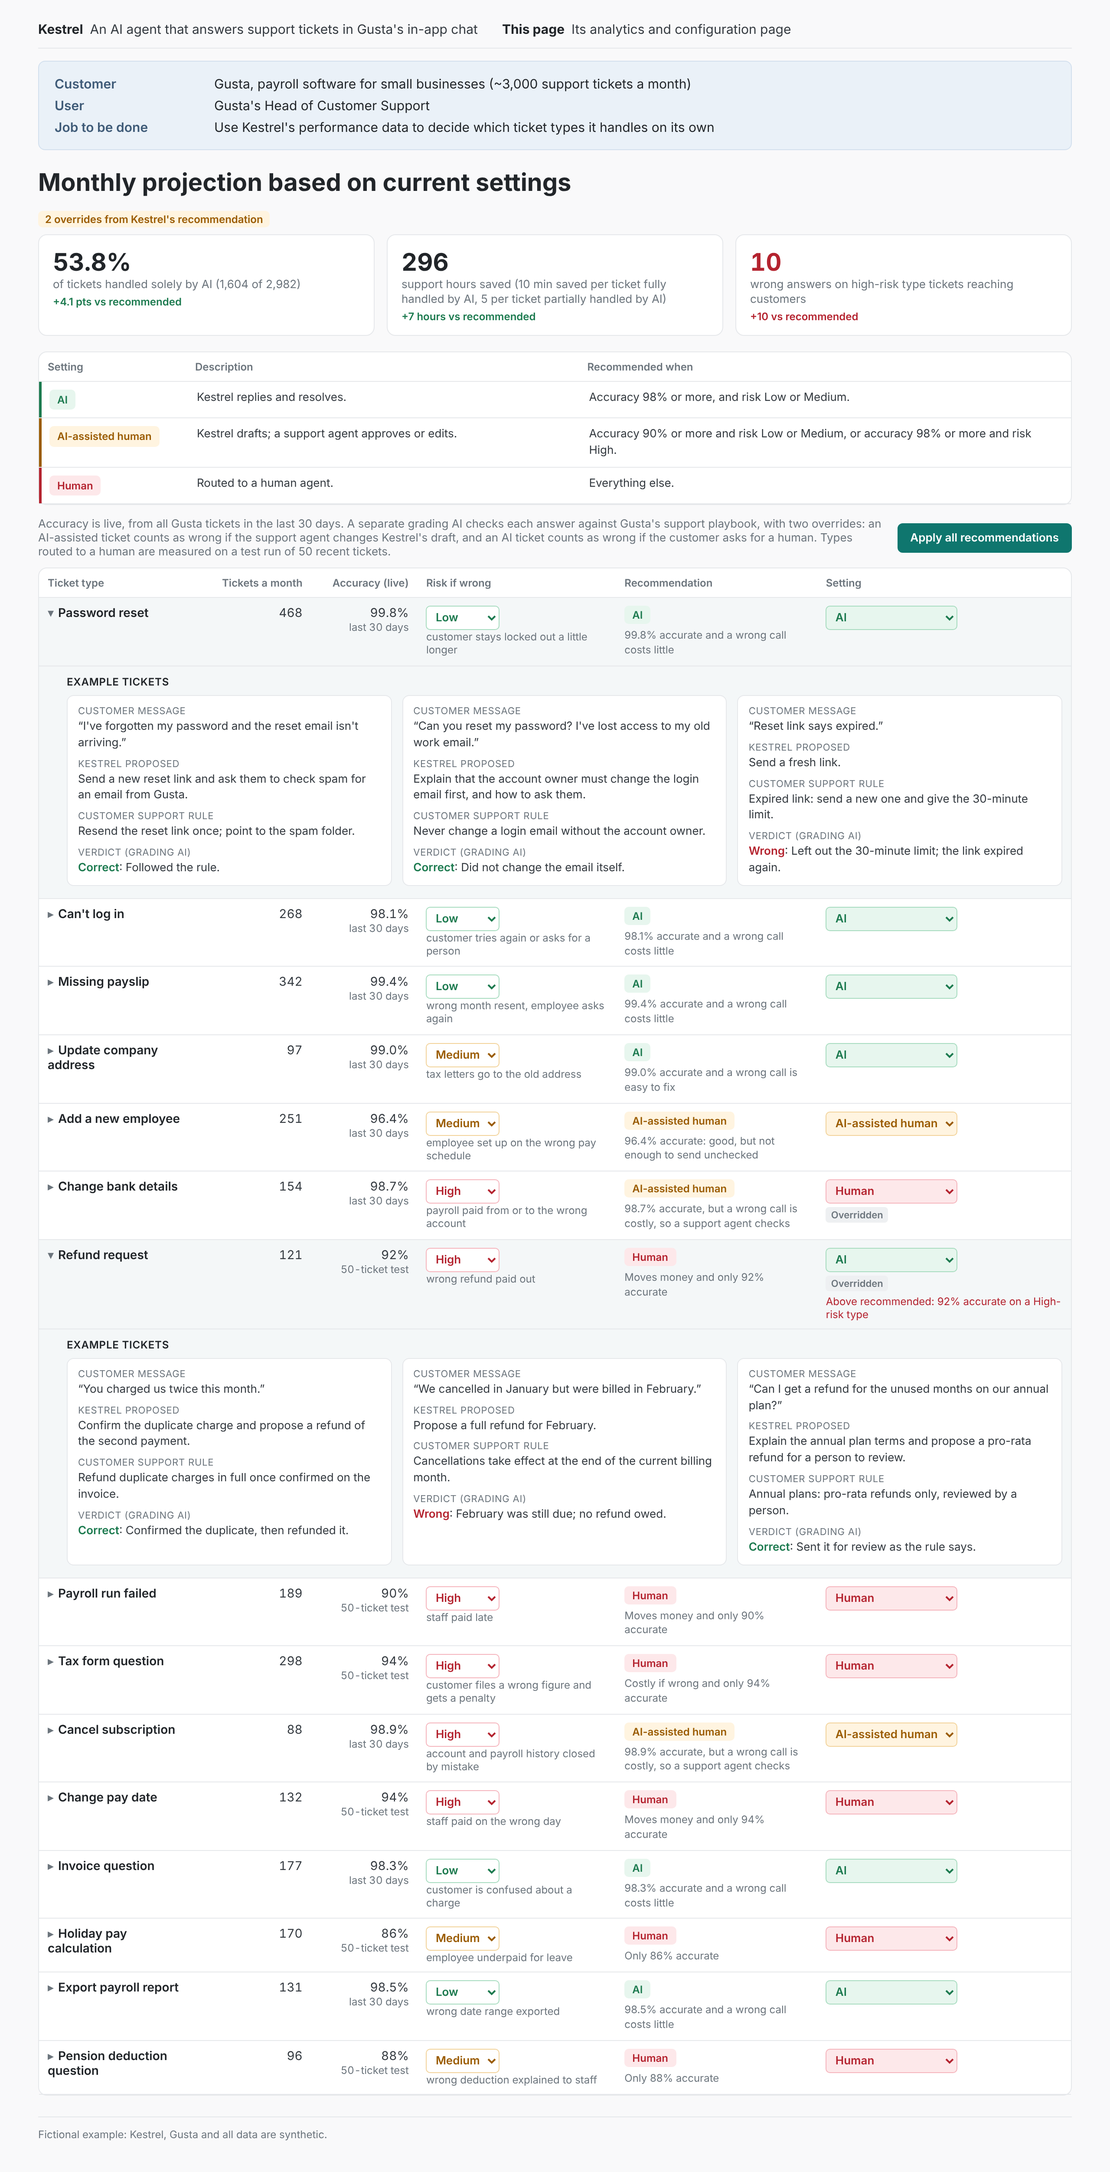
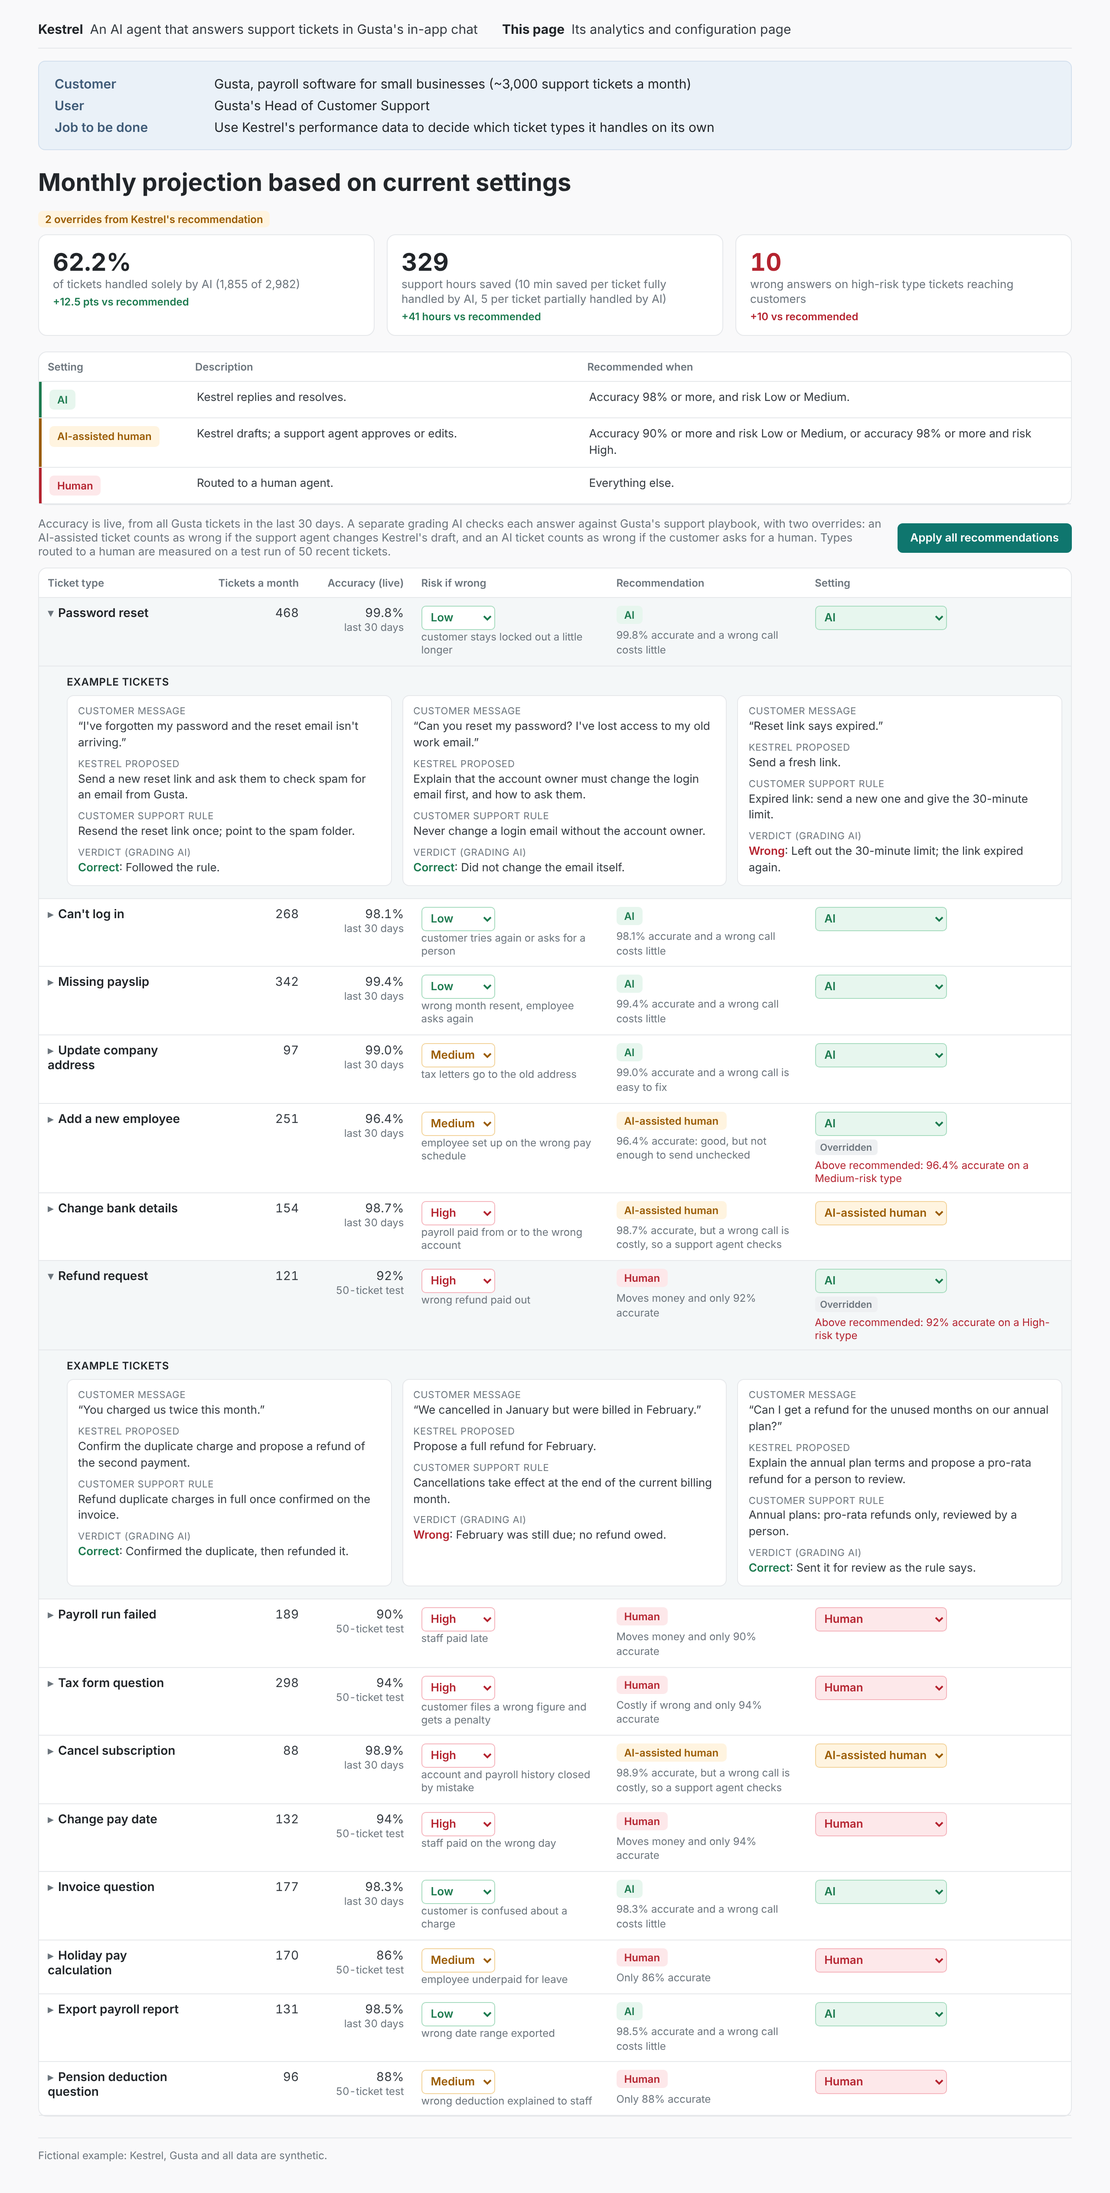
Live accuracy refresh animation; default override moves a type up to AI; new landing title; remaining skill lessons
Claude-Session: https://claude.ai/code/session_016JoguXTxkWcj5knaYbAtMZ

diff --git a/examples/kestrel/run/build/mvp.html b/examples/kestrel/run/build/mvp.html
@@ -19,6 +19,8 @@ h1{font-size:28px;color:var(--head);margin:0 0 16px}
 .summary{display:grid;grid-template-columns:repeat(3,1fr);gap:14px;margin-bottom:18px}
 .delta{font-size:12px;font-weight:600;margin-top:4px}.d-up{color:var(--ai)}.d-bad{color:var(--hum)}.d-none{color:var(--mute);font-weight:400}
 .card b.hi-bad{color:var(--hum)}
+td.acc{transition:background-color .6s,color .3s}td.acc-up{background:var(--ai-bg);color:var(--ai);font-weight:600}td.acc-down{background:var(--hum-bg);color:var(--hum);font-weight:600}
+.accd{font-size:11px;margin-right:6px}
 .card b{transition:color .25s}.card{transition:background-color .6s}
 .card.flash-good{background:var(--ai-bg)}.card.flash-good b{color:var(--ai)}
 .card.flash-bad{background:var(--hum-bg)}.card.flash-bad b{color:var(--hum)}
@@ -106,7 +108,8 @@ if (typeof module !== 'undefined') module.exports = {accuracy, recommend, summar
 <script>
 const LABEL = {resolve: 'AI', draft: 'AI-assisted human', human: 'Human'};
 let D, settings = [], risks = [], open = new Set([0]);
-const eff = () => D.types.map((t, i) => Object.assign({}, t, {risk: risks[i]}));
+let live = false, accFlash = {};
+const eff = () => D.types.map((t, i) => Object.assign({}, t, {risk: risks[i]}, live ? {} : {correct: t.prev_correct}));
 const fmt = v => Math.round(v).toLocaleString('en-GB');
 function staticParts(){
   const K = D.product, G = D.customer, n = 0;
@@ -143,7 +146,7 @@ function render(){
     const main = `<tr class="row${isOpen ? ' open' : ''}" data-i="${i}" onclick="toggle(${i})">
       <td><span class="chev">${isOpen ? '▾' : '▸'}</span><span class="name">${t.name}</span></td>
       <td class="n">${fmt(t.tickets)}</td>
-      <td class="n">${p}%<div class="sub">${t.tested === t.tickets ? "last 30 days" : t.tested + "-ticket test"}</div></td>
+      <td class="n acc ${accFlash[i] ? (accFlash[i] > 0 ? 'acc-up' : 'acc-down') : ''}">${accFlash[i] ? `<span class="accd">${accFlash[i] > 0 ? '▲ +' : '▼ −'}${Math.abs(accFlash[i]).toFixed(1)}</span>` : ''}${p}%<div class="sub">${t.tested === t.tickets ? "last 30 days" : t.tested + "-ticket test"}</div></td>
       <td onclick="event.stopPropagation()"><select class="rk-${t.risk}" data-risk="${i}" onchange="setRisk(${i}, this.value)">${['Low', 'Medium', 'High'].map(v => `<option${v === t.risk ? ' selected' : ''}>${v}</option>`).join('')}</select>${adj ? '<div class="adjusted">Adjusted by user</div>' : `<div class="sub">${t.risk_example.replace(/^\w+: /, '')}</div>`}</td>
       <td><span class="chip c-${rec}">${LABEL[rec]}</span>${adj ? '' : `<div class="reason">${t.reason}</div>`}</td>
       <td onclick="event.stopPropagation()"><select class="s-${set}" data-i="${i}" onchange="setMode(${i}, this.value)">${['resolve', 'draft', 'human'].map(m => `<option value="${m}"${m === set ? ' selected' : ''}>${LABEL[m]}</option>`).join('')}</select>${over}${warn}</td>
@@ -177,9 +180,15 @@ function setRisk(i, v){ const n = 0, before = recommend(eff()[i], n); risks[i] =
   const after = recommend(eff()[i], n); if (settings[i] === before) settings[i] = after; render();
   toast(`${D.types[i].name} risk set to ${v}. ${after !== before ? 'Now recommended: ' + LABEL[after] + '.' : 'Recommendation unchanged.'}`); }
 function applyAll(silent){ settings = eff().map(t => recommend(t, 0)); render(); if (!silent) toast('All recommendations applied. Projection updated.'); }
-fetch('../data/ticket_types.json').then(r => r.json()).then(d => { D = d; risks = D.types.map(t => t.risk); staticParts(); applyAll(true);
-  setTimeout(() => { settings[D.types.findIndex(t => t.name === 'Change bank details')] = 'human'; render();
-    toast("Saved settings loaded: 1 override from Kestrel's recommendation."); document.body.dataset.ready = '1'; }, 600); })
+fetch('../data/ticket_types.json').then(r => r.json()).then(d => { D = d; risks = D.types.map(t => t.risk); staticParts();
+  // saved settings: one override (Add a new employee moved up to AI)
+  settings = eff().map(t => recommend(t, 0)); settings[D.types.findIndex(t => t.name === 'Add a new employee')] = 'resolve'; render();
+  // live accuracy refresh: yesterday's figures move to today's, each changed cell flashes green or red
+  setTimeout(() => { live = true; accFlash = {};
+    D.types.forEach((t, i) => { const d = (t.correct - t.prev_correct) / t.tested * 100; if (Math.abs(d) >= 0.05) accFlash[i] = d; });
+    render(); const n = Object.keys(accFlash).length;
+    toast(`Live accuracy updated with today's tickets: ${n} ticket types changed.`); document.body.dataset.ready = '1';
+    setTimeout(() => { accFlash = {}; render(); }, 2200); }, 700); })
   .catch(() => { document.querySelector('main').insertAdjacentHTML('afterbegin', '<p class="measure"><b>Couldn\'t load the data.</b> Open this page through a web server, not by double-clicking the file.</p>'); });
 </script>
 </body></html>

diff --git a/examples/kestrel/run/build/check_mvp.js b/examples/kestrel/run/build/check_mvp.js
@@ -13,14 +13,16 @@ const srv = http.createServer((q, r) => { const f = path.join(root, decodeURICom
   const it = await txt('#intro'), hd = await txt('#header'); t('Kestrel and This page at the top, outside the box', it.indexOf('An AI agent that answers support tickets') < it.indexOf('Its analytics and configuration page') && !hd.includes('Its analytics') && hd.includes('Customer'));
   t('accuracy line explains the overrides', (await txt('#measure')).includes('counts as wrong if the support agent changes') && (await txt('#measure')).includes('asks for a human'));
   t('headline', (await txt('#headline')) === 'Monthly projection based on current settings');
-  t('default: 1 override (Change bank details set to Human)', (await txt('#state')) === "1 override from Kestrel's recommendation" && (await p.inputValue('select[data-i="5"]')) === 'human' && (await txt('tr.row[data-i="5"]')).includes('Overridden'));
-  t('default projection: 49.7%, 275 hours, 0', (await txt('#sumShare')) === '49.7%' && (await txt('#sumHours')) === '275' && (await txt('#sumHigh')) === '0');
-  t('on load: saved settings applied with a red flash on hours, and a confirmation', (await p.getAttribute('#sumHours >> xpath=..', 'class')).includes('flash-bad') && (await txt('#toast')).includes('Saved settings loaded'));
+  t('default: 1 override (Add a new employee set to AI, above recommended)', (await txt('#state')) === "1 override from Kestrel's recommendation" && (await p.inputValue('select[data-i="4"]')) === 'resolve' && (await txt('tr.row[data-i="4"]')).includes('Above recommended'));
+  t('default projection: 58.1%, 309 hours, 0', (await txt('#sumShare')) === '58.1%' && (await txt('#sumHours')) === '309' && (await txt('#sumHigh')) === '0');
+  t('live accuracy refresh: green and red cells with the change', (await p.$$('td.acc-up')).length === 4 && (await p.$$('td.acc-down')).length === 2 && (await txt('tr.row[data-i="0"] td.acc')).includes('▲ +0.2') && (await txt('#toast')).includes('Live accuracy updated'));
+  t('no load flash on the hours card', !(await p.getAttribute('#sumHours >> xpath=..', 'class')).includes('flash'));
   t('label says solely by AI', (await txt('#summary')).includes('of tickets handled solely by AI'));
   await p.click('#applyAll');
   t('no badge with recommended settings', !(await p.$('#state')));
   t('recommended settings: 49.7%, 288 hours, 0 high-risk wrong answers', (await txt('#sumShare')) === '49.7%' && (await txt('#sumHours')) === '288' && (await txt('#sumHigh')) === '0');
   t('rules before the table', await p.evaluate(() => !!(document.querySelector('#rules').compareDocumentPosition(document.querySelector('#types')) & Node.DOCUMENT_POSITION_FOLLOWING)));
+  await p.waitForTimeout(2400);
   t('15 rows, Password reset expanded by default', (await p.$$('tr.row')).length === 15 && (await p.$$('tr.detail')).length === 1 && (await txt('tr.row.open')).includes('Password reset'));
   const det = await txt('tr.detail');
   t('each expanded row has an Example tickets heading', det.includes('Example tickets'));

diff --git a/index.html b/index.html
@@ -1,23 +1,23 @@
 <!doctype html>
 <html lang="en"><head><meta charset="utf-8"><meta name="viewport" content="width=device-width,initial-scale=1">
-<title>From customer need to tested prototype in an hour</title>
+<title>How I go from customer need to a working prototype in an hour</title>
 <style>
 body{margin:0;font-family:Inter,Arial,sans-serif;background:#f9f9fa;color:#343a40}
 main{max-width:1200px;margin:56px auto 40px;padding:0 16px}
-.intro{max-width:980px}
-h1{color:#212529;margin:0 0 10px;font-size:34px;line-height:1.2;white-space:nowrap}p{line-height:1.55;font-size:17px;margin:8px 0}
+.intro{max-width:none}
+h1{color:#212529;margin:0 0 10px;font-size:32px;line-height:1.2;white-space:nowrap}p{line-height:1.55;font-size:17px;margin:8px 0}
 .links{margin:18px 0 24px}
 .case{background:#fff;border-left:3px solid #0f766e;padding:10px 14px;border-radius:4px;font-size:16px}
 a.btn{display:inline-block;background:#0f766e;color:#fff;text-decoration:none;padding:11px 16px;border-radius:6px;font-weight:600;margin:0 10px 10px 0}
 a.sec{background:#fff;color:#343a40;border:1px solid #343a40}
 .demo{border:1px solid #e6e8eb;border-radius:10px;overflow:hidden;background:#fff;box-shadow:0 8px 28px rgba(0,0,0,.06)}
 iframe{display:block;width:100%;height:2600px;border:0}
-@media (max-width:860px){h1{white-space:normal}}
+@media (max-width:1100px){h1{white-space:normal}}
 @media (max-width:700px){iframe{height:700px}h1{font-size:26px}}
 </style></head><body><main>
 <div class="intro">
-<h1>From customer need to tested prototype in an hour</h1>
-<p>How I do it with Claude Code, custom skills and MCPs.</p>
+<h1>How I go from customer need to a working prototype in an hour</h1>
+<p>With Claude Code, custom skills, and MCPs.</p>
 <p>Below is the prototype it produced for a fictional use case: the customer-facing analytics and configuration page of Kestrel, an AI agent that answers customer support tickets. All data is synthetic.</p>
 <div class="links">
 <a class="btn" href="https://github.com/kfauzie/product-workflow">See the skills on GitHub</a>

diff --git a/examples/kestrel/run/notebooks/make_data.py b/examples/kestrel/run/notebooks/make_data.py
@@ -88,6 +88,8 @@ LIVE = {
  'Export payroll report': (131, 129),
  'Pension deduction question': (50, 44),
 }
+# yesterday's correct count for the live types, so the page can show today's refresh (no threshold is crossed)
+PREV = {"Password reset": 466, "Can't log in": 264, "Missing payslip": 339, "Add a new employee": 241, "Change bank details": 151, "Export payroll report": 130}
 REASON = {
  "Password reset": "{p} accurate and a wrong call costs little",
  "Can't log in": "{p} accurate and a wrong call costs little",
@@ -108,7 +110,7 @@ REASON = {
 pct = lambda n: (f"{LIVE[n][1] / LIVE[n][0] * 100:.0f}%" if LIVE[n][0] == 50 else f"{LIVE[n][1] / LIVE[n][0] * 100:.1f}%")
 out = {"label": "FICTIONAL and SYNTHETIC: Kestrel example, not real data",
        "product": "Kestrel", "customer": "Gusta", "channel": "In-app chat", "minutes_ai": 10, "minutes_assisted": 5,
-       "types": [{"name": n, "tickets": v, "tested": LIVE[n][0], "correct": LIVE[n][1], "risk": c, "risk_example": ce, "reason": REASON[n].format(p=pct(n)),
+       "types": [{"name": n, "tickets": v, "tested": LIVE[n][0], "correct": LIVE[n][1], "prev_correct": PREV.get(n, LIVE[n][1]), "risk": c, "risk_example": ce, "reason": REASON[n].format(p=pct(n)),
                   "examples": [{"message": a, "proposed": b, "rule": rl, "correct": ok, "verdict_reason": rs} for a, b, rl, ok, rs in ex]}
                  for n, v, k, c, ce, mm, ex in T]}
 json.dump(out, open("data/ticket_types.json", "w"), indent=1)

diff --git a/README.md b/README.md
@@ -17,10 +17,10 @@ Kestrel's analytics and configuration page, for Gusta's Head of Customer Support
 
 | Part | What it shows |
 |---|---|
-| Monthly projection based on current settings | **49.7%** of tickets handled solely by AI (1,483 of 2,982) · **275** support hours saved (10 minutes per ticket fully handled by AI, 5 per ticket partially handled by AI) · **0** wrong answers on high-risk type tickets reaching customers. Recalculates as settings change; each change flashes green or red and shows the difference from Kestrel's recommendation |
+| Monthly projection based on current settings | **58.1%** of tickets handled solely by AI (1,734 of 2,982) · **309** support hours saved (10 minutes per ticket fully handled by AI, 5 per ticket partially handled by AI) · **0** wrong answers on high-risk type tickets reaching customers. Recalculates as settings change; each change flashes green or red and shows the difference from Kestrel's recommendation |
 | Settings | **AI**: Kestrel replies and resolves (recommended at 98%+ accuracy and risk Low or Medium) · **AI-assisted human**: Kestrel drafts, a support agent approves or edits (90%+ and risk Low or Medium, or 98%+ and risk High) · **Human**: routed to a human agent (everything else) |
-| The table | 15 ticket types: tickets a month, live accuracy, risk if wrong, Kestrel's recommendation with its reason, and the setting Gusta controls |
-| Adjustments | Risk and setting are both editable. Changing a risk shows "Adjusted by user" and re-runs the recommendation; changing a setting shows "Overridden" and warns when it gives Kestrel more autonomy than recommended. A confirmation appears after each change. The page opens with one override (Change bank details kept with a human); "Apply all recommendations" resets it |
+| The table | 15 ticket types: tickets a month, live accuracy (refreshed on load, each change shown in green or red), risk if wrong, Kestrel's recommendation with its reason, and the setting Gusta controls |
+| Adjustments | Risk and setting are both editable. Changing a risk shows "Adjusted by user" and re-runs the recommendation; changing a setting shows "Overridden" and warns when it gives Kestrel more autonomy than recommended. A confirmation appears after each change. The page opens with one override (Add a new employee moved up to AI); "Apply all recommendations" resets it |
 | Example tickets | 3 under each ticket type: customer message, what Kestrel proposed, the customer support rule, and the grading AI's verdict |
 
 Accuracy is live, from all Gusta tickets in the last 30 days. A separate grading AI checks each answer against Gusta's support playbook, with two overrides: an AI-assisted ticket counts as wrong if the support agent changes Kestrel's draft, and an AI ticket counts as wrong if the customer asks for a human. Types routed to a human are measured on a test run of 50 recent tickets. Every number on the page is calculated from [the data](examples/kestrel/run/data/ticket_types.json) and checked by [tests](examples/kestrel/run/build/test_mvp.js) on every push.

diff --git a/.claude/commands/pm-4-solution-design.md b/.claude/commands/pm-4-solution-design.md
@@ -20,6 +20,10 @@ description: "Turn the solution concept into screens in the company's design sys
 6. **Trust.** The user can see how each number was produced, and where every choice came from (their input, a default, or changed by them).
 7. **Handle edge cases.** Missing data, unclear input, or something the product can't do: say so where it happens, let the user fix it there, then redo what depends on it.
 8. **Make it enjoyable.** Serious, with a little personality: friendly wording, a sense of progress.
+9. **One page by default.** Lead with the few numbers that answer the job, then the rule that produces the recommendation, then the detail. Everything else is one click away (expand a row, open a panel), not a second screen.
+10. **Recommend, let the user decide.** Show the product's recommendation and a separate control the user owns. Mark anything the user changed ("Overridden", "Adjusted by user"), warn when a change goes beyond the recommendation, and offer a one-click way back.
+11. **Make every change visible.** Numbers recalculate live from the current settings; a change shows its direction (green when good, red when not) and a short confirmation that fades. The default state should already show the main interaction, e.g. one change already made.
+12. **Name every actor without ambiguity.** If two things could share a word (a person and an AI, a customer and an end user), always qualify it, and use the same names on every screen.
 
 ## Step 1: Specify each screen
 - **Input:** the concept's workflow and persona.
@@ -41,5 +45,5 @@ description: "Turn the solution concept into screens in the company's design sys
 - **Edge cases:**
   - No Figma: use `design-system`'s neutral defaults, and say so in the notes under the image.
   - A screen takes more than a few minutes: it's too detailed; cut it back.
-- **Acceptance criteria:** realistic placeholder numbers (no calculations, no data checks: real numbers come in `pm-5`); every label is in the glossary; walk the flow once as the user and fix anything confusing.
+- **Acceptance criteria:** realistic placeholder numbers that are not suspiciously round (no calculations, no data checks: real numbers come in `pm-5`); a short header says what the page is and who it is for, in labelled lines, not a paragraph; colours mean the same thing everywhere, including on controls; every label is in the glossary; walk the flow once as the user and fix anything confusing.
 - **Handoff:** one screen first, the most important one; get feedback before making the rest. The agreed screens go to `pm-5-mvp-build`.

diff --git a/.claude/commands/pm-5-mvp-build.md b/.claude/commands/pm-5-mvp-build.md
@@ -19,11 +19,13 @@ description: "Turn the agreed screens into a working first version, fast: one HT
   - No real data: use a small synthetic file, clearly labelled on screen.
   - The concept leaves a number undefined: stop and name it, don't invent a formula.
 - **Acceptance criteria:**
+  - when the brief gives data or rules, tests check them exactly (every row, every rule outcome); when it gives wording rules (banned words, no em dashes), a check enforces them
+  - interactive controls recalculate everything that depends on them, and the tests cover the override paths, not just the default
   - every number is calculated by code, following the concept's AI / code / people split
   - the concept's test cases pass
   - a headless check (about 10 seconds): the page loads, the main flow clicks through, no errors
   - a first-time user can tell in five seconds what each screen is for and what to do next
-- **Handoff:** tell me how to open it; screenshots only if I ask.
+- **Handoff:** tell me how to open it; screenshots only if I ask. If the work is public, a live link (static hosting) and checks that run on every push make it easy to review.
 
 ## Step 2: Change one thing at a time
 - **Input:** my feedback.

diff --git a/.claude/commands/pm-standard.md b/.claude/commands/pm-standard.md
@@ -43,4 +43,7 @@ Professional and easy to scan: a sharp memo with a little visual help, not a dec
 ## How to work with me
 - Narrate trade-offs: what you're doing, what you're leaving out, and why.
 - Challenge me when a choice doesn't trace back to the customer or the data.
+- Show the judgement, not just the output: for each step, state the call and the reason before doing it, and name what you turned down.
+- Cut before you add: when something new goes in, say what it replaces or what moves out of view.
+- In fictional examples, invent names that don't resemble real companies or products in the same space.
 - Documents I read or annotate live in Notion, under the parent page named in the active context folder. Create the page and give me the link; don't summarise it in chat.
